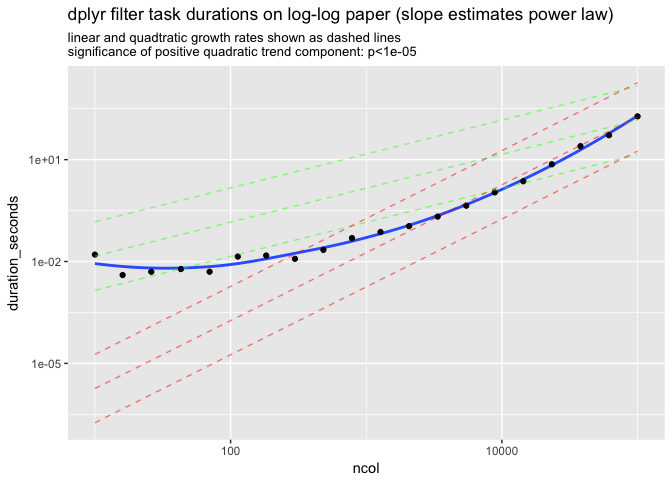
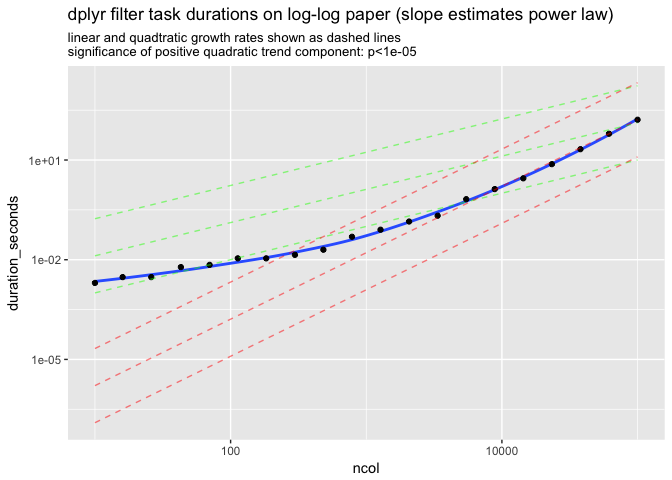
re-run with more tbl

diff --git a/dplyr/filter.md b/dplyr/filter.md
@@ -18,13 +18,20 @@ system.time(fetched_sample <- df[df$V1>1, , drop=FALSE])
 ```
 
     ##    user  system elapsed 
-    ##   0.613   0.004   0.621
+    ##   0.664   0.011   0.696
 
 [dplyr](https://CRAN.R-project.org/package=dplyr) timing.
 
 ``` r
 library("dplyr")
 
+system.time(fetched_sample <- filter(df, V1>1))
+```
+
+    ##    user  system elapsed 
+    ## 148.677  10.173 168.767
+
+``` r
 tb <- as_tibble(df)
 
 td <- system.time(fetched_sample <- filter(tb, V1>1))
@@ -32,7 +39,7 @@ print(td)
 ```
 
     ##    user  system elapsed 
-    ## 133.985   9.771 147.560
+    ## 129.081  16.474 149.685
 
 [data.table](https://CRAN.R-project.org/package=data.table) timing.
 
@@ -45,7 +52,7 @@ system.time(dfr <- dt[V1>1, ])
 ```
 
     ##    user  system elapsed 
-    ##   1.680   0.013   1.707
+    ##   1.895   0.023   1.949
 
 [Python](https://www.python.org) [Pandas](https://pandas.pydata.org) timing.
 
@@ -55,7 +62,7 @@ system.time(write_feather(df, "df.feather"))
 ```
 
     ##    user  system elapsed 
-    ##   0.278   0.213   0.505
+    ##   0.271   0.214   0.504
 
 ``` python
 import pandas
@@ -80,7 +87,7 @@ end_time = timeit.default_timer()
 print(end_time - start_time)
 ```
 
-    ## 2.4562293919734657
+    ## 1.9789928130339831
 
 ``` python
 start_time = timeit.default_timer()
@@ -91,26 +98,26 @@ end_time = timeit.default_timer()
 print(end_time - start_time)
 ```
 
-    ## 4.974348712014034
+    ## 4.00986497302074
 
 ``` r
 end_pandas <- Sys.time()
 print(start_pandas)
 ```
 
-    ## [1] "2018-02-13 06:53:50 PST"
+    ## [1] "2018-02-13 07:32:19 PST"
 
 ``` r
 print(end_pandas)
 ```
 
-    ## [1] "2018-02-13 06:54:01 PST"
+    ## [1] "2018-02-13 07:32:29 PST"
 
 ``` r
 print(end_pandas - start_pandas)
 ```
 
-    ## Time difference of 11.30699 secs
+    ## Time difference of 10.10463 secs
 
 Characterize dplyr dependence on column count. In the plot the nearest pure linear and quadratic power laws are plotted as dashed lines.
 
